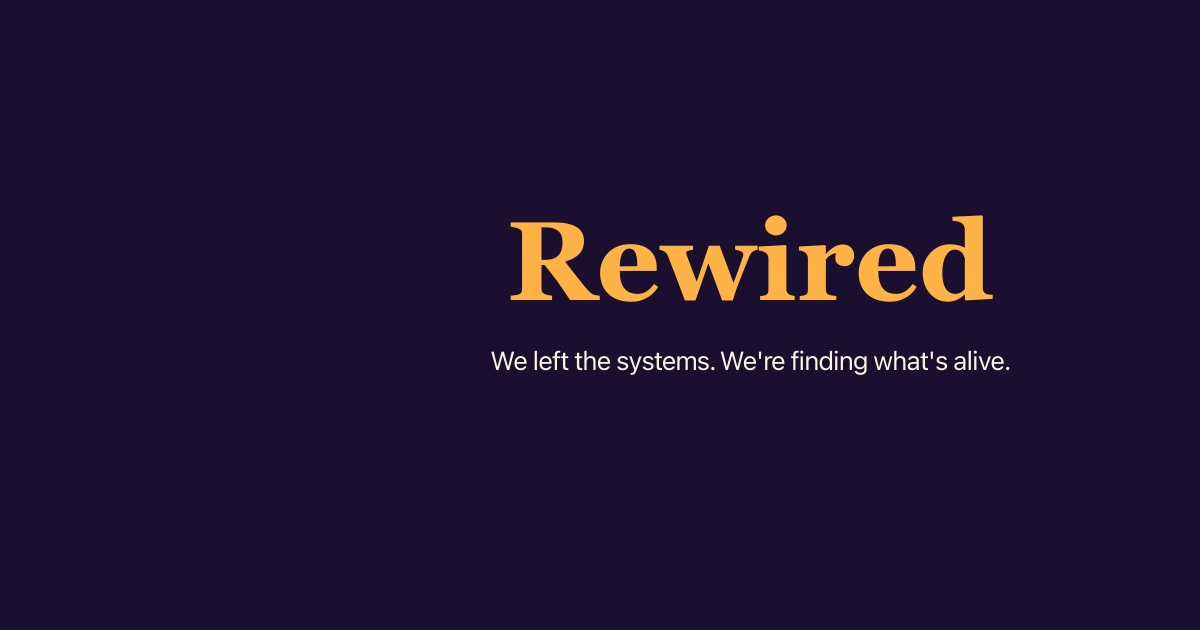
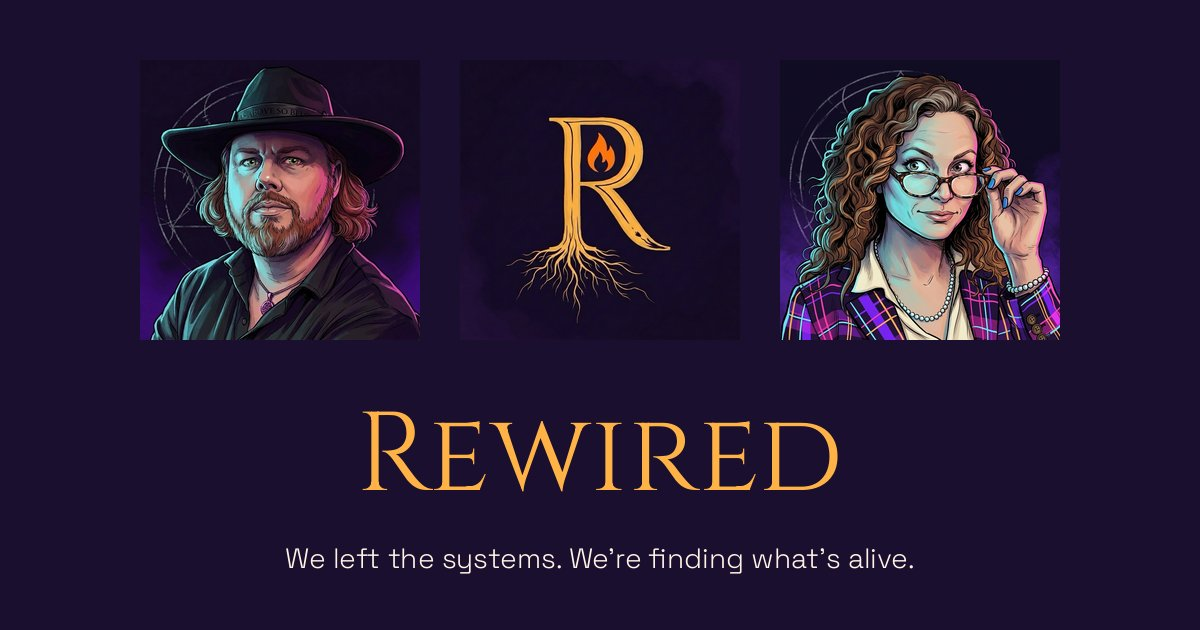
feat(og): Pillow-composited OG image — trinity layout (portraits + R mark)
Replaces the text-only rsvg OG image with a real brand composition:
Matt portrait | R mark | Jaye Anne portrait across the top, "Rewired"
wordmark + tagline centered below. The show's identity readable in one
glance on every social surface.

Why Pillow not rsvg-convert:
- rsvg-convert ≥ 2.60 silently blocks external file:// references from
  <image xlink:href="...">, so the previous OG renders were text-only
  against a Void Purple field — the portraits and mark never landed on
  the image. That was the "bland" Matt flagged. Pillow reads JPGs
  directly with no such restriction.
- rsvg-convert uses system fonts via fontconfig; Cinzel + Space Grotesk
  only ship as woff2 web fonts in the arcaeon theme, so the wordmark
  was falling back to Georgia/serif — the second bug Matt flagged
  (typeface mismatch). The new script converts both woff2 files to TTF
  at runtime via fontTools so Pillow renders with the exact site
  typefaces.

scripts/compose-og.py is idempotent, self-contained, and uses paths
relative to its own location — future OG regenerations after content
or asset changes run with `python3 scripts/compose-og.py`.

Note to future self: social scraper caches (Facebook Debugger, Twitter/X
Card Validator, Slack, iMessage) are aggressive. After pushing a new
OG, force a re-scrape via the debugger tools before re-sharing links.

diff --git a/scripts/compose-og.py b/scripts/compose-og.py
@@ -1,0 +1,114 @@
+#!/usr/bin/env python3
+"""
+Compose the Rewired Open Graph image (1200×630) via Pillow.
+
+Produces static/images/og/rewired-og.jpg — the image referenced by the OG
++ Twitter Card meta tags in layouts/_default/baseof.html and served to
+link-preview scrapers at /images/og/rewired-og.jpg.
+
+Why Pillow instead of rsvg-convert:
+  - rsvg-convert ≥ 2.60 blocks external file:// references for security,
+    silently dropping embedded <image xlink:href="file://..."> elements
+    without warning. Pillow reads JPGs directly with no such restriction.
+  - rsvg-convert uses system fonts (fontconfig); Cinzel + Space Grotesk
+    are only available as woff2 web fonts in the arcaeon theme. This
+    script converts the theme's woff2 files to TTF at runtime via
+    fontTools so Pillow can render with the site's exact typefaces.
+
+Composition:
+  - Trinity row at top: Matt portrait | R mark | Jaye Anne portrait
+    (three 280×280 squares, 40px gaps, centered).
+  - Wordmark "Rewired" centered below in Fusion Gold Cinzel.
+  - Tagline centered below the wordmark in Solar White Space Grotesk.
+
+Run:
+  python3 scripts/compose-og.py
+
+Regenerate whenever the R mark, portraits, or tagline change. Remember to
+force a re-scrape on social surfaces (Facebook Debugger, Twitter/X Card
+Validator, Slack, iMessage) since link-preview caches are aggressive.
+"""
+from PIL import Image, ImageDraw, ImageFont
+from fontTools.ttLib import TTFont
+from pathlib import Path
+import tempfile
+
+SITE = Path(__file__).resolve().parent.parent
+W, H = 1200, 630
+
+# ARCÆON warm-core subset (D-11)
+VOID_PURPLE = (26, 15, 46)     # #1a0f2e
+FUSION_GOLD = (255, 179, 71)   # #ffb347
+SOLAR_WHITE = (255, 244, 230)  # #fff4e6
+
+# Source assets
+MATT_PORTRAIT      = SITE / "static/images/portraits/matt.jpg"
+MARK               = SITE / "static/images/logos/rewired-mark.jpg"
+JAYE_ANNE_PORTRAIT = SITE / "static/images/portraits/jaye-anne.jpg"
+
+# Web fonts (woff2) — converted to TTF at runtime for Pillow
+CINZEL_WOFF2        = SITE / "themes/arcaeon/static/fonts/cinzel-latin-wght-normal.woff2"
+SPACE_GROTESK_WOFF2 = SITE / "themes/arcaeon/static/fonts/space-grotesk-latin-wght-normal.woff2"
+
+# Output
+OUT = SITE / "static/images/og/rewired-og.jpg"
+
+# Tagline sourced from hugo.toml [params].tagline — keep in sync manually
+TAGLINE = "We left the systems. We're finding what's alive."
+
+
+def woff2_to_ttf(woff2_path: Path) -> Path:
+    """Convert a woff2 web font to TTF in a temp file. Pillow reads TTF but not woff2 directly."""
+    font = TTFont(str(woff2_path))
+    font.flavor = None
+    fd, tmp_path = tempfile.mkstemp(suffix=".ttf", prefix="rewired-og-font-")
+    font.save(tmp_path)
+    return Path(tmp_path)
+
+
+def paste_square(canvas: Image.Image, src: Path, x: int, y: int, size: int) -> None:
+    """Open a (nominally square) JPG, resize with high-quality filter, paste at (x, y)."""
+    img = Image.open(src).convert("RGB").resize((size, size), Image.LANCZOS)
+    canvas.paste(img, (x, y))
+
+
+def main() -> int:
+    canvas = Image.new("RGB", (W, H), VOID_PURPLE)
+
+    size, gap = 280, 40
+    left = (W - (3 * size + 2 * gap)) // 2  # centered: 140
+    y_top = 60
+
+    paste_square(canvas, MATT_PORTRAIT,      left,                    y_top, size)
+    paste_square(canvas, MARK,               left + size + gap,       y_top, size)
+    paste_square(canvas, JAYE_ANNE_PORTRAIT, left + 2 * (size + gap), y_top, size)
+
+    # Load site's web fonts via on-the-fly woff2→TTF conversion
+    cinzel_ttf        = woff2_to_ttf(CINZEL_WOFF2)
+    space_grotesk_ttf = woff2_to_ttf(SPACE_GROTESK_WOFF2)
+
+    draw = ImageDraw.Draw(canvas)
+
+    # Wordmark — Cinzel 112pt, Fusion Gold, centered
+    wordmark_font = ImageFont.truetype(str(cinzel_ttf), 112)
+    wordmark = "Rewired"
+    wbbox = wordmark_font.getbbox(wordmark)
+    word_x = (W - (wbbox[2] - wbbox[0])) // 2
+    word_y = 380
+    draw.text((word_x, word_y), wordmark, font=wordmark_font, fill=FUSION_GOLD)
+
+    # Tagline — Space Grotesk 28pt, Solar White, centered
+    tagline_font = ImageFont.truetype(str(space_grotesk_ttf), 28)
+    tbbox = tagline_font.getbbox(TAGLINE)
+    tag_x = (W - (tbbox[2] - tbbox[0])) // 2
+    tag_y = 540
+    draw.text((tag_x, tag_y), TAGLINE, font=tagline_font, fill=SOLAR_WHITE)
+
+    OUT.parent.mkdir(parents=True, exist_ok=True)
+    canvas.save(OUT, format="JPEG", quality=85, optimize=True)
+    print(f"wrote {OUT.relative_to(SITE)}  ({OUT.stat().st_size:,} bytes, {W}×{H})")
+    return 0
+
+
+if __name__ == "__main__":
+    raise SystemExit(main())
